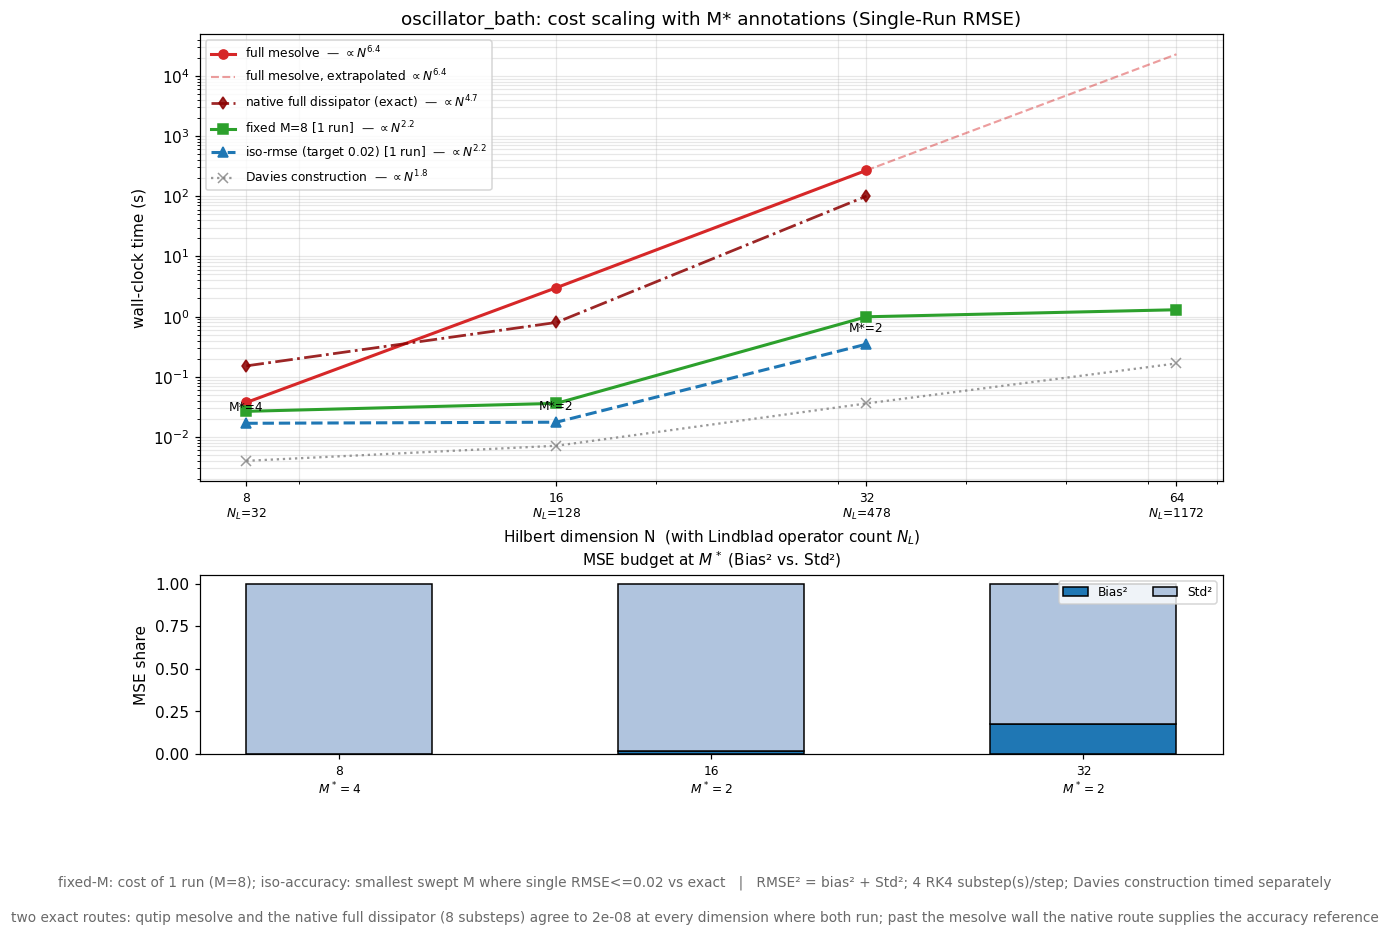
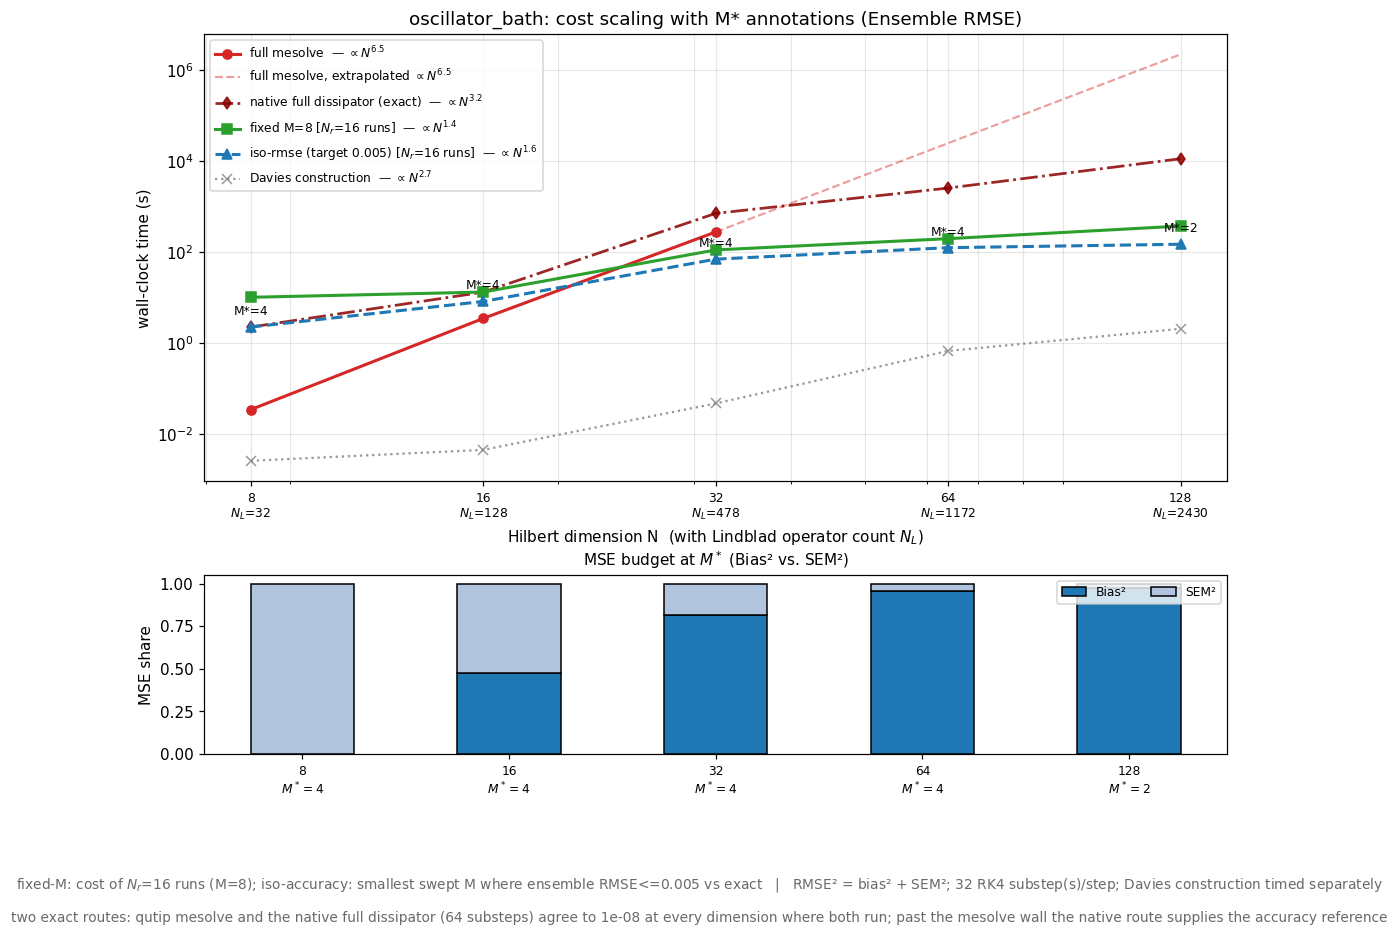
R2: restore ensemble headline default; regenerate headline figures from dim-128 data; fix prose (M* claim, dim-256 assertion, hollow marker attribution, iso slope 2.5)

diff --git a/benchmarks/plot_cost_scaling.py b/benchmarks/plot_cost_scaling.py
@@ -33,7 +33,7 @@ TARGET_BY_SYSTEM = {"spin_chain": 0.02, "oscillator_bath": 0.005}
 #   "single"   : error of ONE run -> sqrt(bias^2 + Std^2). Harsher: no
 #                averaging, so noise stays full size and M* comes out larger.
 # Either is defensible; the footer always states which one produced the figure.
-ESTIMATE_TYPE = "single"
+ESTIMATE_TYPE = "ensemble"
 ERROR_TYPE = "rmse"       # Options: "rmse", "bias", "sem", "std"
 
 SHOW_NATIVE_CURVE = True  # cost of the native full-dissipator exact solve
